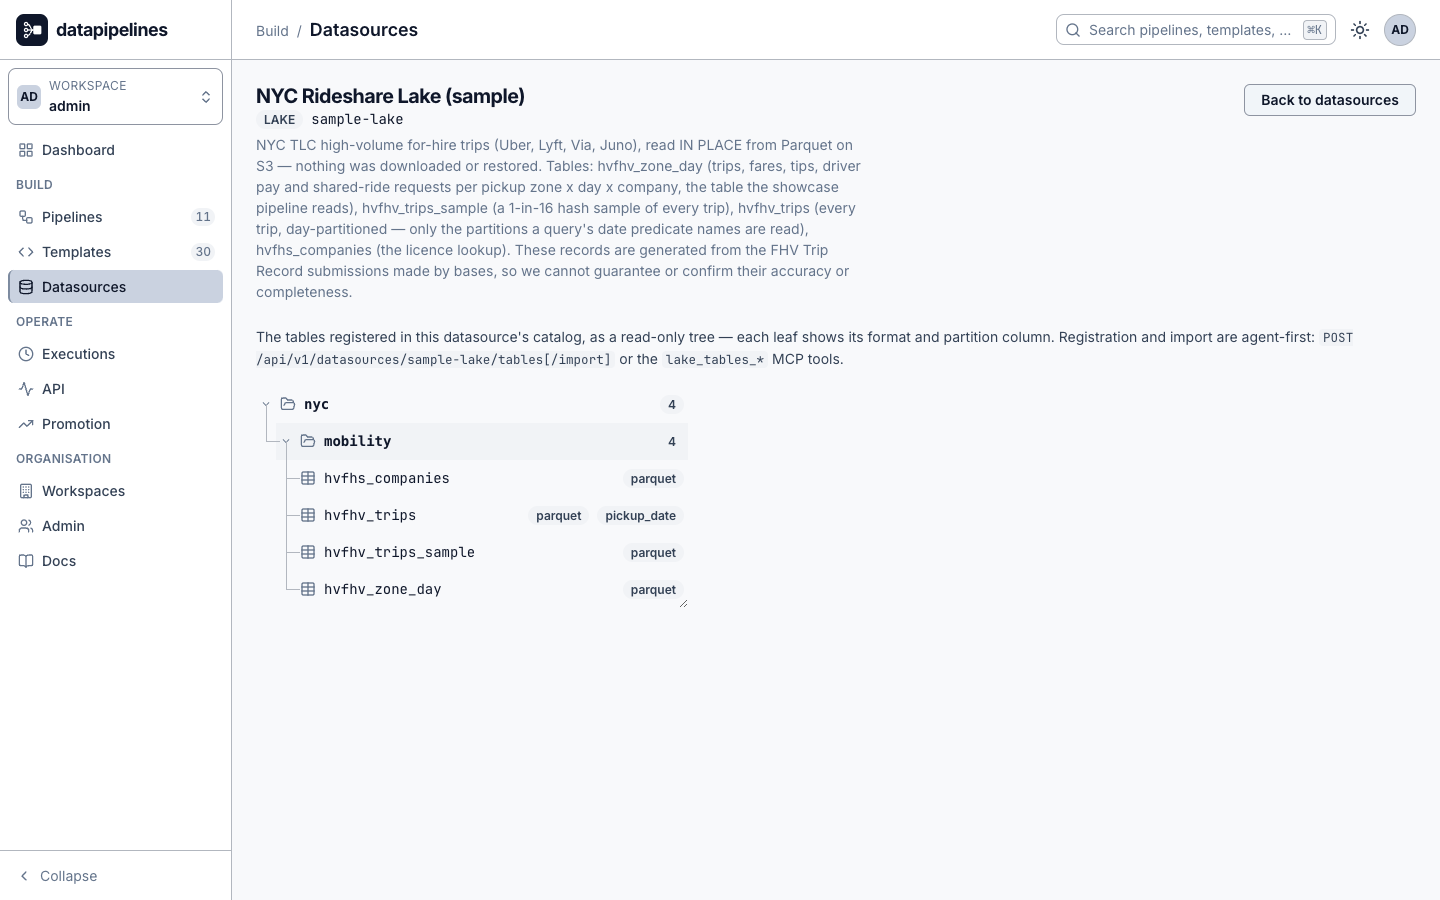
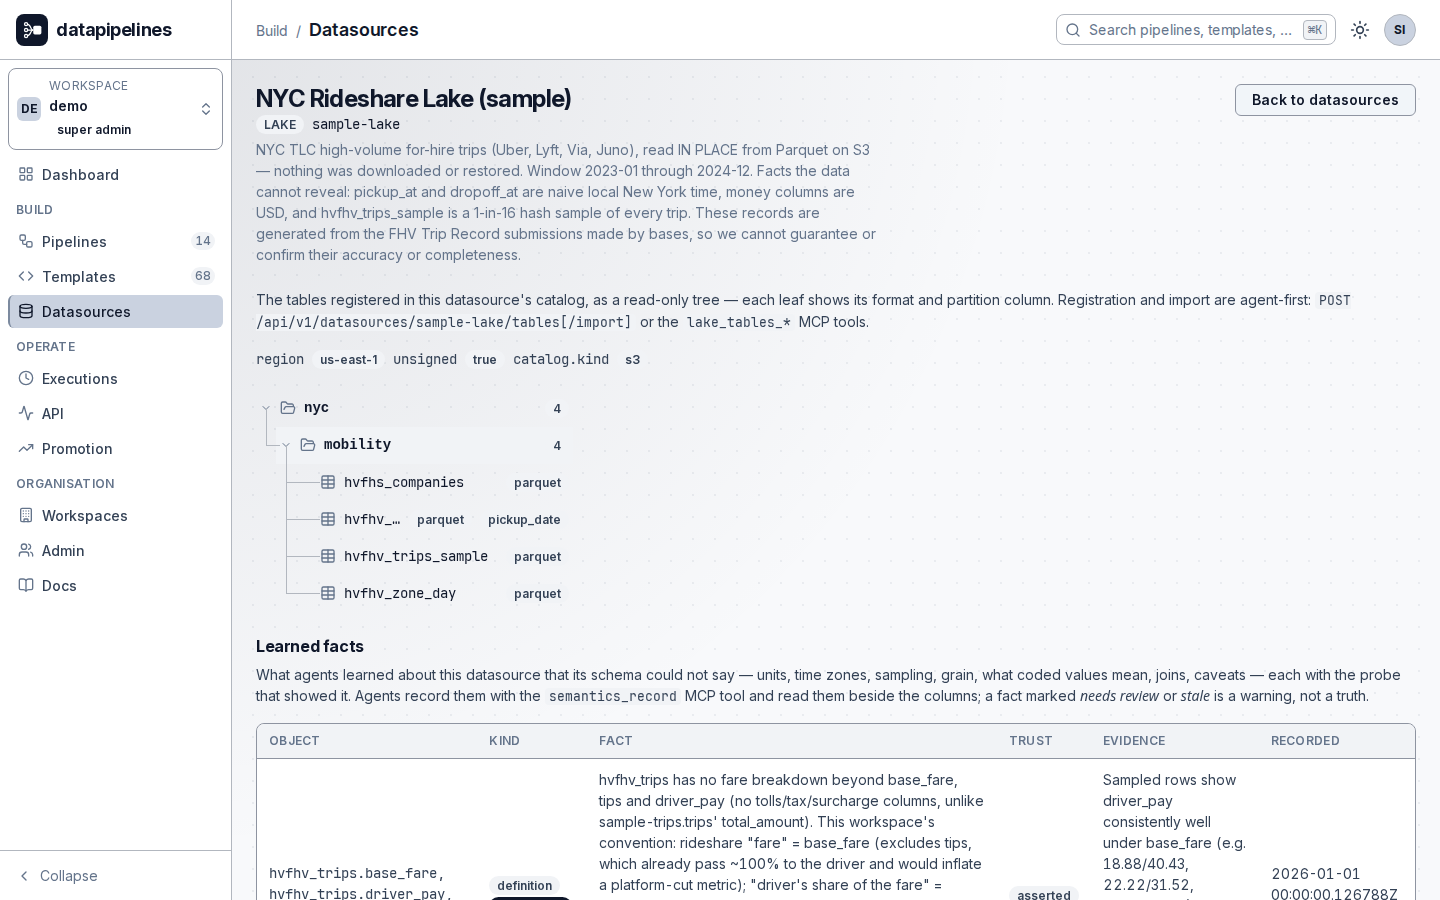
feat(site): siteShots photographs a named pipeline — -PshotsPipeline, -PshotsHeroPipeline, -PshotsInspectNode — and the shots show the 18-node snow-days pipeline (#166)
The driver photographed two hard-coded seeded pipelines. The owner wants the site to show the most complex pipeline built through MCP, demo/snow_days/taxi_vs_rideshare_snow_vs_clear_by_borough (18 nodes, four engines plus H2 staging), so the graph/inspector pipeline, the hero pipeline and the inspected node are run-time properties with the seeded defaults kept. The dark-shell shot expands the photographed pipeline's folders instead of nyc/mobility. The inspector opens the node through the accessible node list (Enter on the row), not the card's hover button: on an 18-node fit the 24 px expand affordance no longer lays out, and the list is the keyboard route the product guarantees at every zoom; it then scrolls the node section above the dock's fold, because 140 renders the release checks first. Twelve of the thirteen PNGs are refreshed from a run against the dev box carrying the imported pipeline; workspaces.png is kept as it was (the dev box's member list carries a personal address).

Guard: SiteShotsFolderPrefixesTest (3/0).

diff --git a/tests/browser-tests/src/test/kotlin/co/datapipelines/browser/SiteShotsMain.kt b/tests/browser-tests/src/test/kotlin/co/datapipelines/browser/SiteShotsMain.kt
@@ -73,8 +73,12 @@ object SiteShotsMain {
     private const val VIEWPORT_W = 1440
     private const val VIEWPORT_H = 900
 
-    /** The pipeline photographed for the graph, inspector and failure shots. */
-    private const val SHOWCASE = "nyc/mobility/weather_sensitivity_by_borough"
+    /**
+     * The pipeline photographed for the graph, inspector and failure shots — the DEFAULT; the
+     * run's `-PshotsPipeline=<name>` overrides it (#166), so a deployment carrying a richer
+     * pipeline than the seeded examples can be photographed without editing this file.
+     */
+    private const val DEFAULT_SHOWCASE = "nyc/mobility/weather_sensitivity_by_borough"
 
     /**
      * The HERO pipeline (093 §B). The four-engine 089 showcase is the product's thesis in one
@@ -85,7 +89,22 @@ object SiteShotsMain {
      * photographing a lesser pipeline in its place, because "several nodes, more than one
      * engine, a staging join" is what the shot is FOR.
      */
-    private const val HERO_PIPELINE = "nyc/mobility/taxi_vs_rideshare"
+    private const val DEFAULT_HERO_PIPELINE = "nyc/mobility/taxi_vs_rideshare"
+
+    /** [DEFAULT_SHOWCASE] unless the run names another pipeline (`-PshotsPipeline`). */
+    private val showcase: String by lazy { prop("shots.pipeline", DEFAULT_SHOWCASE) }
+
+    /** [DEFAULT_HERO_PIPELINE] unless the run names another (`-PshotsHeroPipeline`). */
+    private val heroPipeline: String by lazy { prop("shots.heroPipeline", DEFAULT_HERO_PIPELINE) }
+
+    /**
+     * The node the inspector shot opens (`-PshotsInspectNode=<node id>`); blank = the first
+     * node of the accessible list, which is the first card. Opened through the list (#166),
+     * not the card's hover button: on an 18-node graph the fit zooms the cards down until
+     * the 24 px expand affordance no longer lays out, and the list is the keyboard route the
+     * product guarantees regardless of zoom (a11y.js, 031).
+     */
+    private val inspectNode: String by lazy { prop("shots.inspectNode", "") }
 
     /** The hero's viewport: taller than the shot list's 1440x900, so the dock fits under the graph. */
     private const val HERO_W = 1440
@@ -232,6 +251,16 @@ object SiteShotsMain {
             .setDeviceScaleFactor(1.0)
             .setColorScheme(ColorScheme.LIGHT)
             .setReducedMotion(ReducedMotion.REDUCE)
+
+    /**
+     * The folders a name sits under, outermost first: `a/b/c.sql` → `a`, `a/b`. Each is one
+     * explorer expansion (067: every level is fetched on demand).
+     */
+    internal fun folderPrefixes(name: String): List<String> =
+        name
+            .split('/')
+            .dropLast(1)
+            .runningReduce { prefix, segment -> "$prefix/$segment" }
 
     private fun prop(
         key: String,
@@ -787,7 +816,7 @@ object SiteShotsMain {
             if (page.viewportSize().width == VIEWPORT_W && page.viewportSize().height == VIEWPORT_H) {
                 page.setViewportSize(HERO_W, HERO_H)
             }
-            openEditor(HERO_PIPELINE)
+            openEditor(heroPipeline)
             execute()
             // 080: the dock's four tabs are Details | Results | Errors | Events; a successful
             // run lands on Results, and the table is the signal the rows arrived.
@@ -809,14 +838,14 @@ object SiteShotsMain {
             setTheme("dark")
             page.navigate("$baseUrl/pipelines")
             waitFor("#pipeline-list-wrapper")
-            expandFolder("nyc", PIPELINES_PARTIAL)
-            expandFolder("nyc/mobility", PIPELINES_PARTIAL)
+            // The showcase's folders, so the dark shell shows the pipeline the other shots do.
+            folderPrefixes(showcase).forEach { expandFolder(it, PIPELINES_PARTIAL) }
             shoot("shell-dark.png")
             setTheme("light")
         }
 
         private fun editorRunAndGraph() {
-            openEditor(SHOWCASE)
+            openEditor(showcase)
             execute()
             // 065: the results live in the bottom dock (Results | Errors), never a closable panel.
             waitFor(".pe-dock")
@@ -829,7 +858,7 @@ object SiteShotsMain {
         }
 
         private fun nodeInspector() {
-            openEditor(SHOWCASE)
+            openEditor(showcase)
             // FIT FIRST. At the canvas's default zoom a five-node dagre layout is wider than a
             // 1440 viewport, and the right-hand cards' expand buttons land OUTSIDE it — measured
             // 2026-09-08 on `nyc/mobility/borough_od_matrix`: card 2's button sat at x=1656 and
@@ -839,7 +868,7 @@ object SiteShotsMain {
             // pannable and the fit control is right there; the driver just has to use it.
             fitGraph()
             if (!canvasPaintsSanely("node-inspector.png")) return
-            selectNodeOnCanvas(0)
+            openDetailsViaList(inspectNode)
             // The resolved SQL is fetched server-side; the spinner leaving is the release signal.
             page.locator("#pe-node-sql-spinner").waitFor(
                 com.microsoft.playwright.Locator
@@ -991,11 +1020,7 @@ object SiteShotsMain {
             // segment at a time (each expansion fetches ONE more level), then read the editor
             // URL off the LEAF itself: data-editor-url is the same URL the detail pane's Open
             // button uses, and reading it depends on no detail-pane markup.
-            name
-                .split('/')
-                .dropLast(1)
-                .runningReduce { prefix, segment -> "$prefix/$segment" }
-                .forEach { prefix -> expandFolder(prefix, PIPELINES_PARTIAL) }
+            folderPrefixes(name).forEach { prefix -> expandFolder(prefix, PIPELINES_PARTIAL) }
             val leaf = page.locator("button.tpl-leaf:has(.tpl-label[title='$name'])").first()
             leaf.waitFor()
             val editorUrl =
@@ -1029,19 +1054,6 @@ object SiteShotsMain {
          * flake that failed one run in three before this poll existed. Waits for a box with
          * real area instead of trusting visibility.
          */
-        private fun laidOutBox(
-            card: com.microsoft.playwright.Locator,
-            index: Int,
-        ): com.microsoft.playwright.options.BoundingBox {
-            val deadline = System.nanoTime() + LAYOUT_TIMEOUT_MS.toLong() * 1_000_000
-            while (System.nanoTime() < deadline) {
-                val box = card.boundingBox()
-                if (box != null && box.width > 0 && box.height > 0) return box
-                page.waitForTimeout(LAYOUT_POLL_MS)
-            }
-            error("node card $index still had no laid-out box after ${LAYOUT_TIMEOUT_MS.toInt()} ms")
-        }
-
         private fun fitGraph() {
             page.locator(".pe-graph-controls button[aria-label='Fit graph to view']").click()
             // Cytoscape tweens the fit on the canvas; the injected stylesheet zeroes CSS
@@ -1050,34 +1062,36 @@ object SiteShotsMain {
         }
 
         /**
-         * Selects a node by clicking the CANVAS under its card. The card overlay is
-         * `pointer-events: none` (pipeline-editor.md §5.3) so that Cytoscape keeps every
-         * interaction — which means a click on the card element itself reaches nothing. The
-         * card's own bounding box is the coordinate source, so this follows the layout instead
-         * of hard-coding a position dagre is free to change.
+         * Opens a node's Details through the accessible node list (`#pe-node-list`, 031): the
+         * row takes focus and Enter calls the same `openNodeDetails` the card's expand button
+         * does — selection on the canvas is a side effect of opening (065 §C), so the card
+         * highlights exactly as it would from a click. Layout-independent by construction.
          */
-        private fun selectNodeOnCanvas(index: Int) {
-            val card = page.locator(".pe-card").nth(index)
-            card.waitFor()
-            val box = laidOutBox(card, index)
-            // 080: a click on the card SELECTS and fills the dock's Details tab; the
-            // card's own expand button is the explicit route in (it sits in the
-            // card's top-right corner).
-            page.mouse().click(box.x + box.width / 2, box.y + box.height / 2)
-            val open = card.locator(".pe-card-open").first()
-            val openBox = open.boundingBox()
-            val viewport = page.viewportSize()
-            check(
-                openBox != null &&
-                    openBox.x >= 0 && openBox.y >= 0 &&
-                    openBox.x + openBox.width <= viewport.width &&
-                    openBox.y + openBox.height <= viewport.height,
-            ) {
-                "node card $index's expand button is outside the ${viewport.width}x${viewport.height} " +
-                    "viewport (${openBox?.x}, ${openBox?.y}) — fit the graph before selecting"
-            }
-            open.click()
-            page.locator("#pe-pane-details .pe-details").waitFor()
+        private fun openDetailsViaList(nodeId: String) {
+            val rows = page.locator("#pe-node-list li[data-node-id]")
+            rows.first().waitFor(
+                com.microsoft.playwright.Locator
+                    .WaitForOptions()
+                    .setState(WaitForSelectorState.ATTACHED),
+            )
+            val row = if (nodeId.isBlank()) rows.first() else page.locator("#pe-node-list li[data-node-id='$nodeId']")
+            check(row.count() == 1) { "node '$nodeId' is not in the editor's node list" }
+            row.evaluate("el => el.focus()")
+            row.press("Enter")
+            val wanted = if (nodeId.isBlank()) row.getAttribute("data-node-id").orEmpty() else nodeId
+            val details = page.locator("#pe-pane-details .pe-details")
+            details.waitFor()
+            val shown =
+                details
+                    .locator(".pe-details-id")
+                    .first()
+                    .innerText()
+                    .trim()
+            check(shown == wanted) { "the Details pane opened '$shown', not '$wanted'" }
+            // 140 renders the body's release checks ABOVE the node section of the Details tab,
+            // so on a pipeline with checks the node is below the dock's fold: bring it to the top.
+            details.evaluate("el => el.scrollIntoView({ block: 'start' })")
+            page.waitForTimeout(FIT_SETTLE_MS)
             page.evaluate("() => document.activeElement && document.activeElement.blur()")
         }
 
@@ -1200,8 +1214,6 @@ object SiteShotsMain {
     private val SECRET_SHAPED = Regex("""dpk_[A-Za-z0-9_.\-]+""")
 
     private const val FIT_SETTLE_MS = 400.0
-    private const val LAYOUT_TIMEOUT_MS = 15_000.0
-    private const val LAYOUT_POLL_MS = 50.0
 
     private const val WAIT_MS = 30_000.0
     private const val EXECUTION_TIMEOUT_MS = 180_000.0

diff --git a/tests/browser-tests/src/test/kotlin/co/datapipelines/browser/SiteShotsFolderPrefixesTest.kt b/tests/browser-tests/src/test/kotlin/co/datapipelines/browser/SiteShotsFolderPrefixesTest.kt
@@ -1,0 +1,27 @@
+package co.datapipelines.browser
+
+import io.kotest.matchers.shouldBe
+import org.junit.jupiter.api.Test
+
+/**
+ * The folder walk every explorer expansion in [SiteShotsMain] relies on (#166): the shots
+ * photograph whatever pipeline the run names, so the prefixes must come from the NAME, not
+ * from a hard-coded `nyc/mobility` pair — a name three folders deep expands three levels.
+ */
+class SiteShotsFolderPrefixesTest {
+    @Test
+    fun `every folder above the leaf, outermost first`() {
+        SiteShotsMain.folderPrefixes("demo/snow_days/taxi_vs_rideshare_snow_vs_clear_by_borough") shouldBe
+            listOf("demo", "demo/snow_days")
+    }
+
+    @Test
+    fun `the seeded two-level default expands two levels`() {
+        SiteShotsMain.folderPrefixes("nyc/mobility/weather_sensitivity_by_borough") shouldBe listOf("nyc", "nyc/mobility")
+    }
+
+    @Test
+    fun `a bare name has nothing to expand`() {
+        SiteShotsMain.folderPrefixes("orphan") shouldBe emptyList()
+    }
+}

diff --git a/DEVELOPMENT.md b/DEVELOPMENT.md
@@ -479,7 +479,7 @@ screenshot may be illustrated, composited or retouched.
 
 | Property | Value |
 |---|---|
-| Options | `-PshotsUrl` `-PshotsEmail` `-PshotsPassword` (required), `-PshotsFailingPipeline` (the failure shot), `-PshotsOut`, `-PshotsReview` |
+| Options | `-PshotsUrl` `-PshotsEmail` `-PshotsPassword` (required), `-PshotsFailingPipeline` (the failure shot), `-PshotsPipeline` / `-PshotsHeroPipeline` (photograph a richer pipeline than the seeded defaults — the graph/inspector shots and the hero), `-PshotsInspectNode` (which node the inspector shot opens), `-PshotsOut`, `-PshotsReview` |
 | Account | Must have signed in once (its personal workspace carries the seeded examples) and must not still owe a forced password change — the driver fails loudly rather than photographing the change-password form |
 | Output | Ten PNGs at 1440×900, plus two full-page review captures (1440 and 390) under `build/site-review/` |
 | Determinism | Fixed viewport at scale 1, `prefers-reduced-motion`, an injected stylesheet zeroing animations and carets, `document.fonts.ready` awaited, toasts removed, and clocks blanked — timestamps, relative ages, correlation ids and result TTLs |
